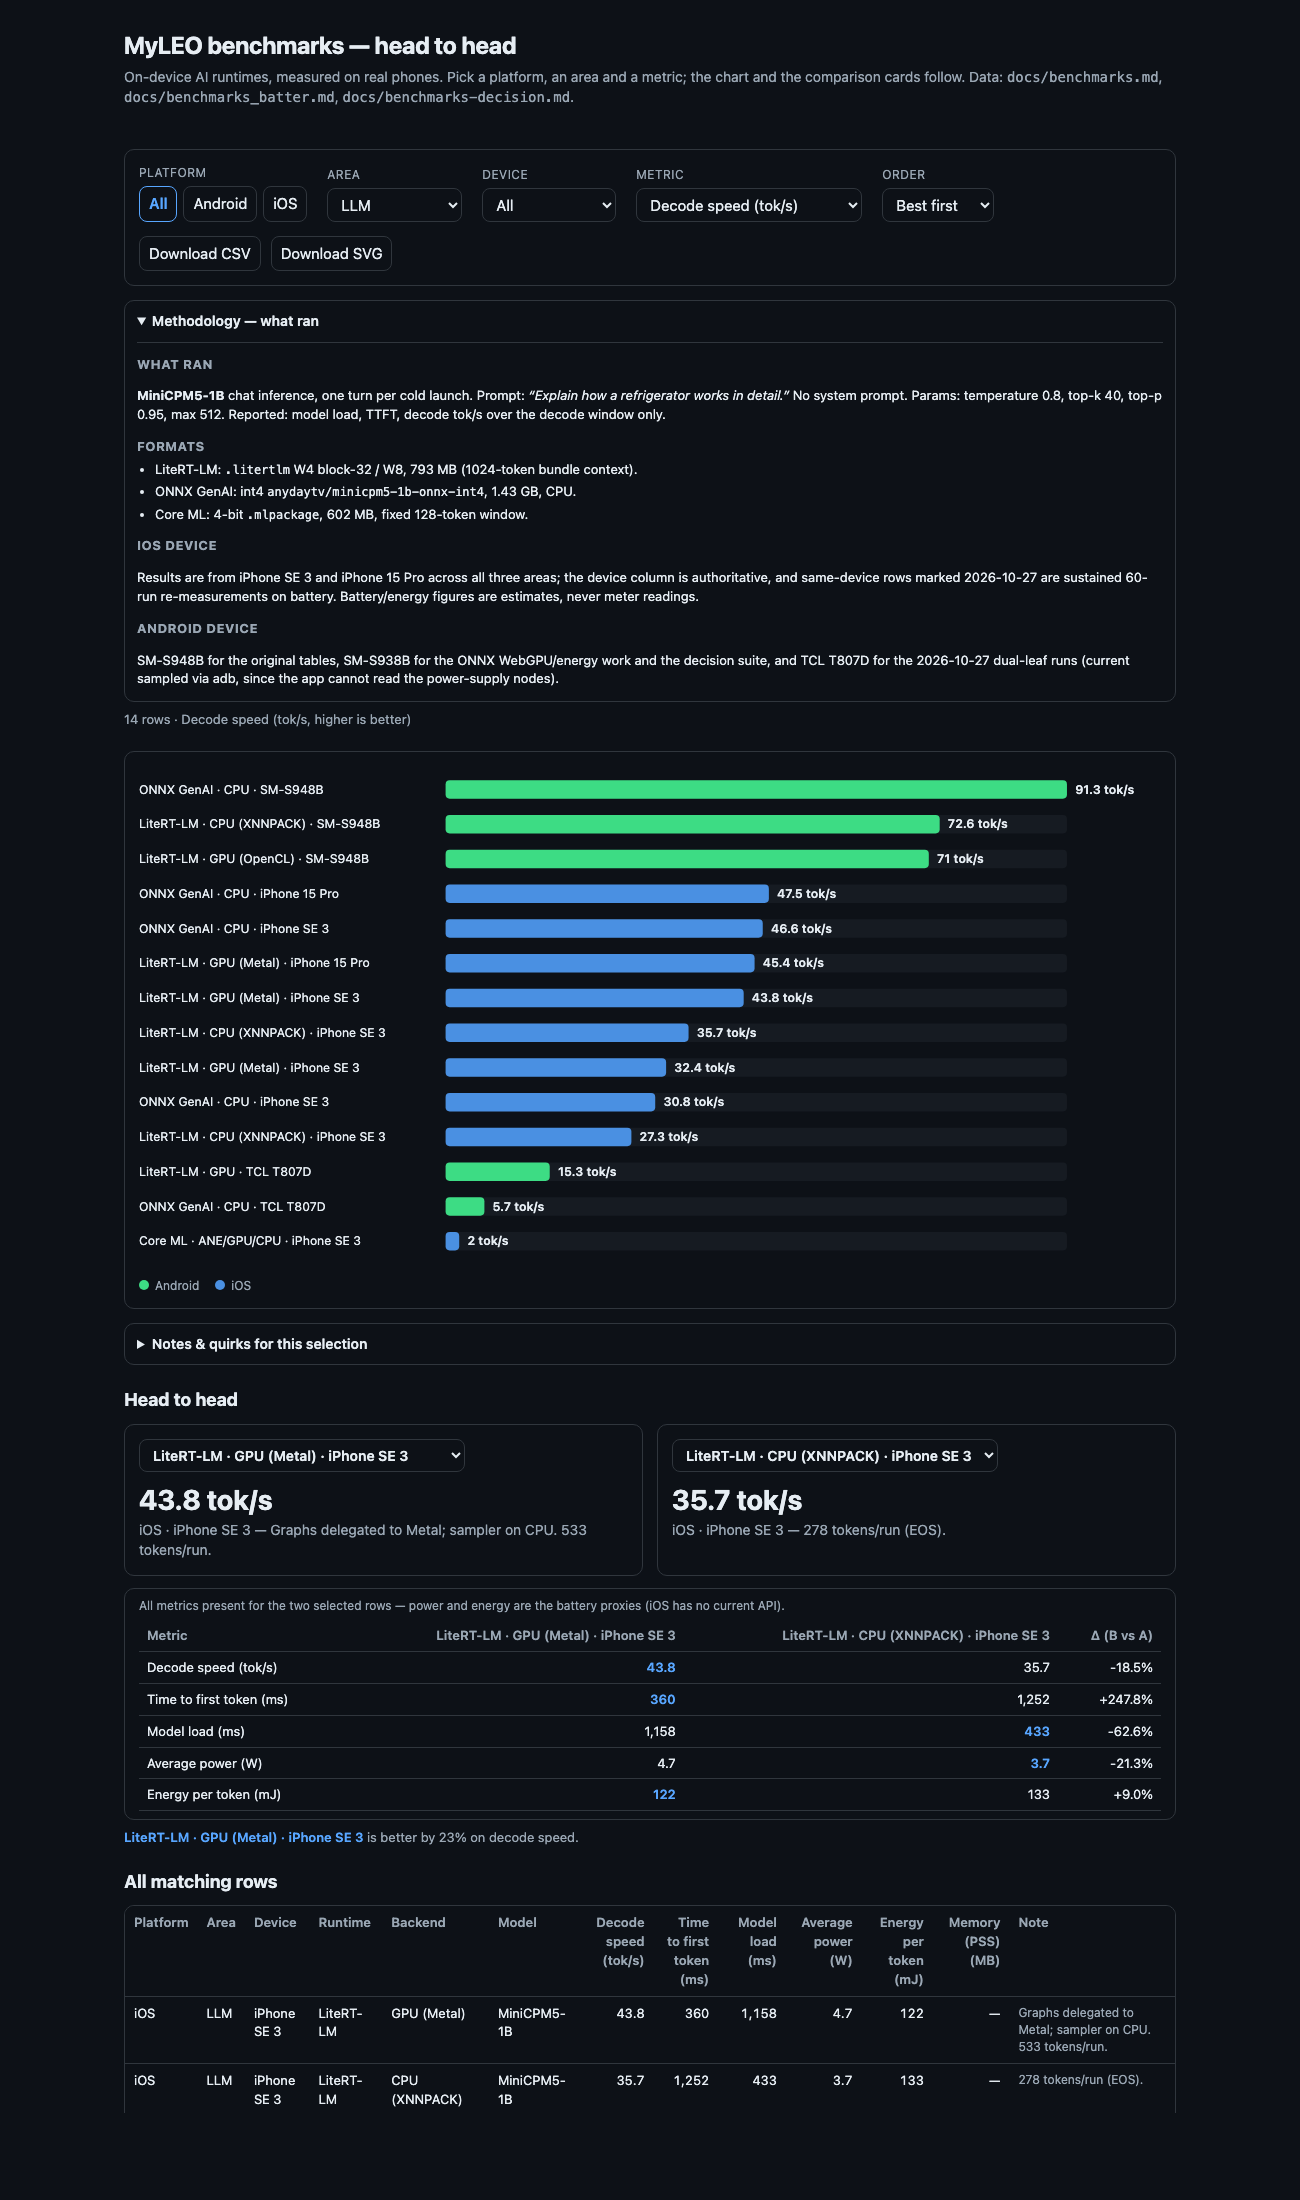
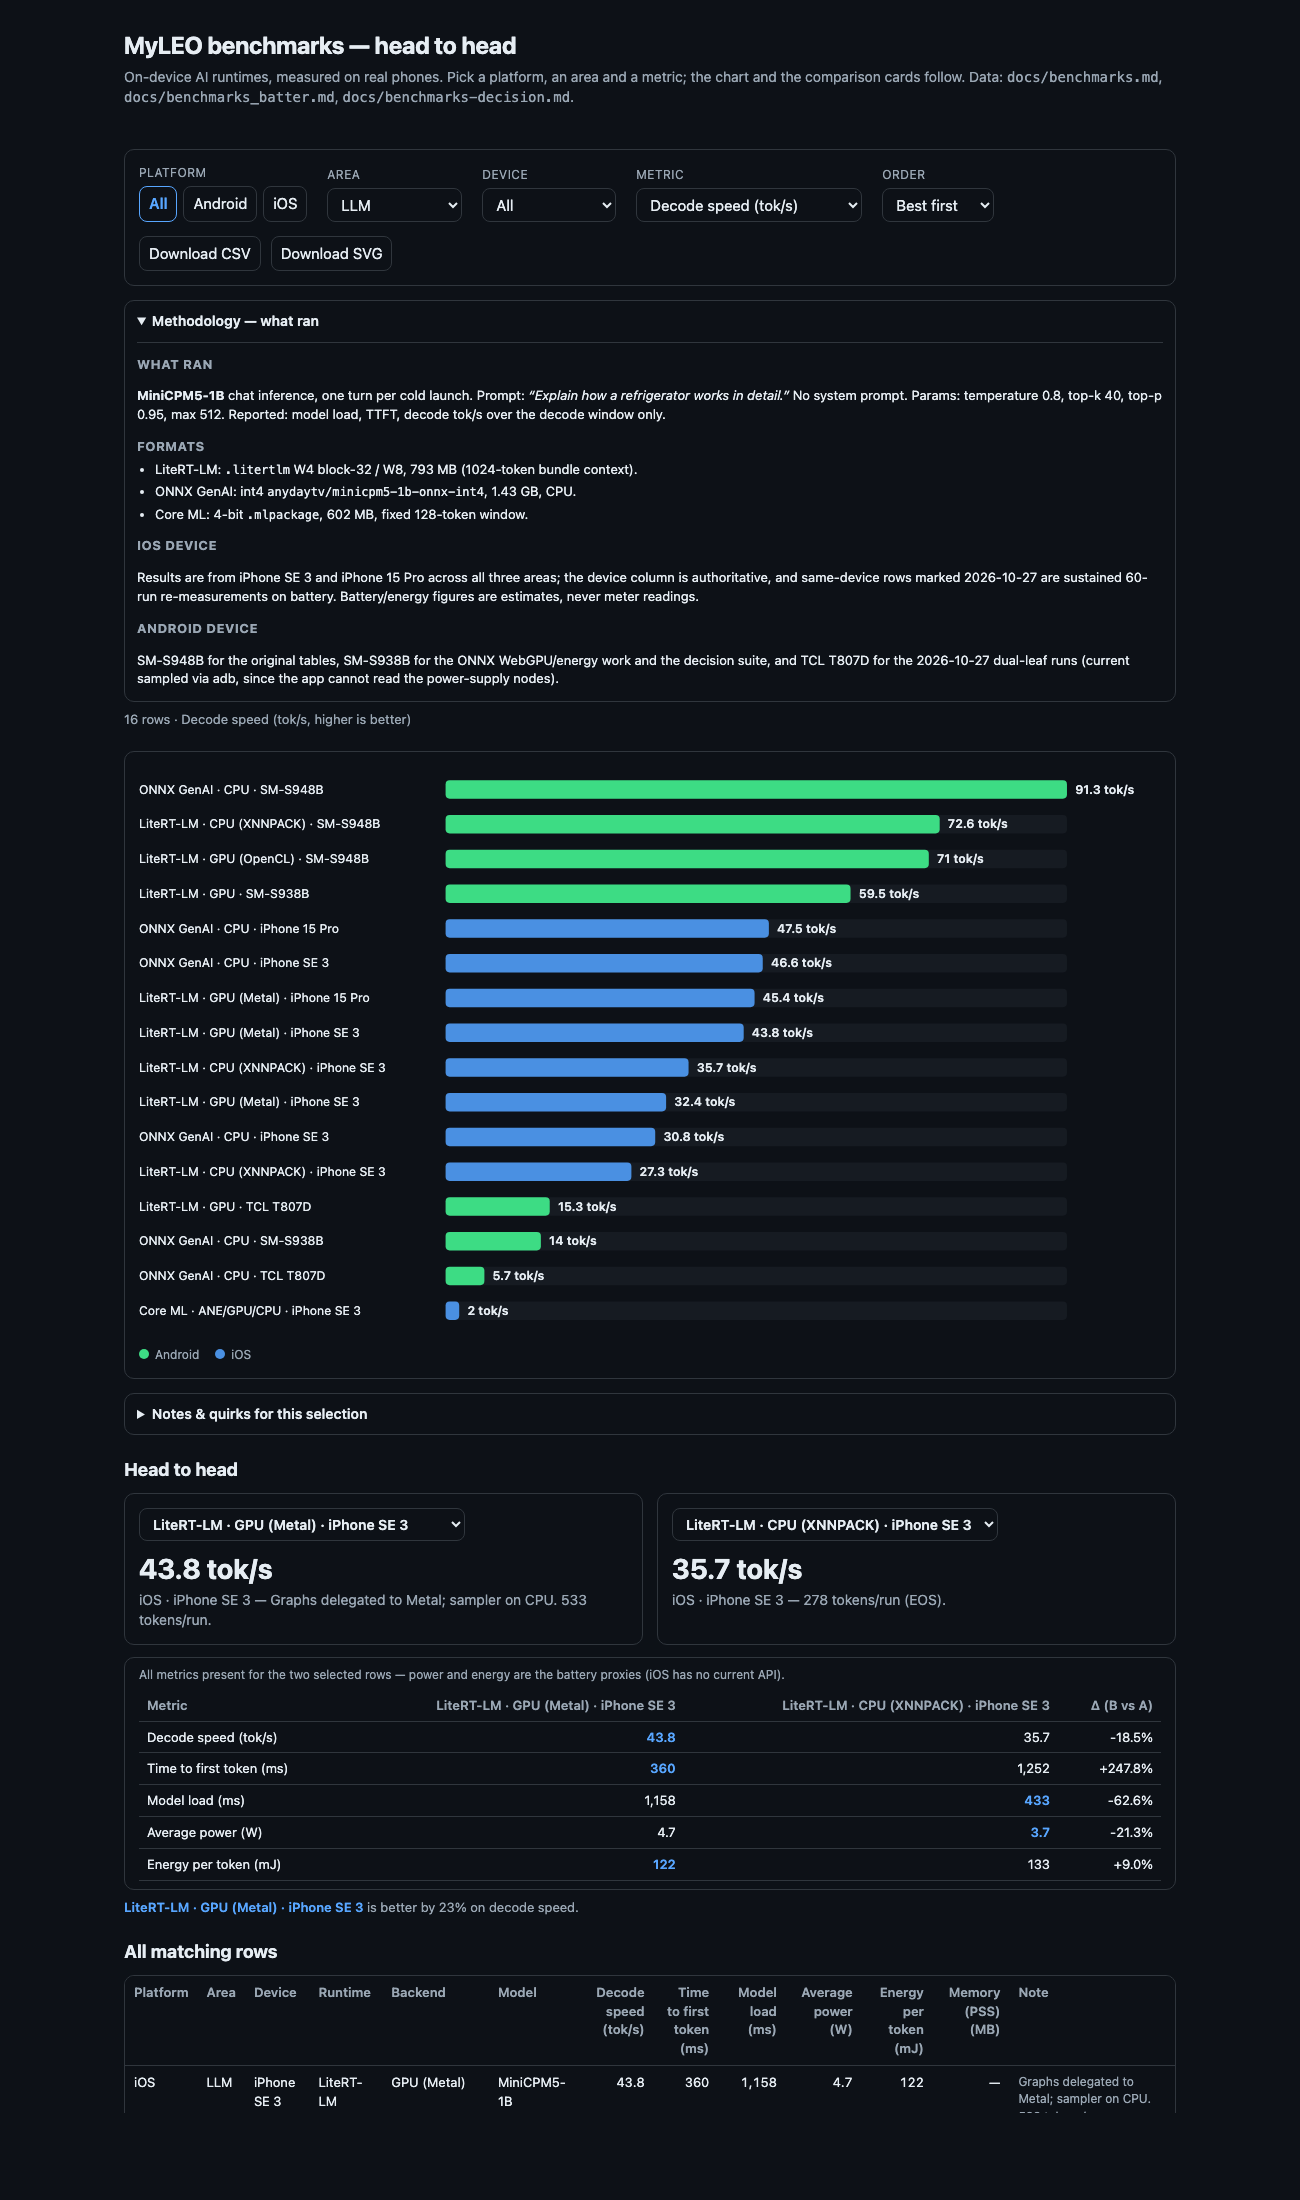
bench(android dual): Samsung S25 Ultra across all three areas
SM-S938B (Android 17, 11.4 GB) with the same instrumented harness and packages
as the TCL run. Unplugged, no power saving, thermal status 0.

Energy method: Samsung blocks /sys/class/power_supply and its `current now` is
heavily smoothed, so lanes were sized to cross at least one 0.1%-charge-counter
step (4.925 mAh = 67.7 J) and energy comes from those deltas (±34 J).

Vector (3000 chunks)
- LiteRT: 140 ms load, 58.8 ms/chunk, 3.45 W, 203 mJ/chunk (single-thread XNNPACK)
- ONNX:   660 ms load, 19.6 ms/chunk, 2.77 W, 68 mJ/chunk

Decision (Julia-1)
- LiteRT: 4.6 s load, 89.8 ms/prompt, GPU FP32, 1.96 W, 188 mJ/prompt
- ONNX:   3.3 s load, 49.0 ms/prompt, CPU, 9.43 W, 470 mJ/prompt
- GPU is slower but 2.5x cheaper per decision; ONNX pins all cores at 9.4 W

LLM
- LiteRT-LM GPU (MiniCPM5-1B): 5.7 s load, TTFT 133 ms, 59.5 tok/s, 88 mJ/token
- ONNX GenAI CPU (Phi-4 int4): 6.2 s load, TTFT 505 ms, 14.0 tok/s, 523 mJ/token
- LiteRT holds 59 tok/s across all three runs (no TCL-style throttling)

Dashboard 38 -> 44 rows, CSV + PNG regenerated, standalone snapshot rebuilt and
its CDP/no-JS checks re-run at the new counts.

diff --git a/docs/standalone-benchmarks.html b/docs/standalone-benchmarks.html
@@ -311,6 +311,30 @@
 <td class="note">Fastest decode on this phone; 361-544 tokens/run.</td>
 </tr>
 <tr>
+<td>SM-S938B</td>
+<td>LiteRT-LM</td>
+<td>GPU</td>
+<td>MiniCPM5-1B</td>
+<td class="num">5,674</td>
+<td class="num">133.0</td>
+<td class="num">59.5</td>
+<td class="num">4.2</td>
+<td class="num">88.2</td>
+<td class="note">2026-10-28 dual leaf, 3x512-token runs; cold run 60.4 tok/s then 59.5/59.2.</td>
+</tr>
+<tr>
+<td>SM-S938B</td>
+<td>ONNX GenAI</td>
+<td>CPU</td>
+<td>Phi-4-mini int4</td>
+<td class="num">6,201</td>
+<td class="num">505.0</td>
+<td class="num">14.0</td>
+<td class="num">7.1</td>
+<td class="num">523.3</td>
+<td class="note">2026-10-28 dual leaf, Phi-4 int4; 1525/1525/574 tokens because max_length = maxTokens+1024.</td>
+</tr>
+<tr>
 <td>TCL T807D</td>
 <td>LiteRT-LM</td>
 <td>GPU</td>
@@ -481,6 +505,28 @@
 </tr>
 <tr>
 <td>SM-S938B</td>
+<td>LiteRT</td>
+<td>CPU</td>
+<td>MiniLM-L6-v2</td>
+<td class="num">140</td>
+<td class="num">58.8</td>
+<td class="num">3.5</td>
+<td class="num">203.2</td>
+<td class="note">2026-10-28 dual leaf, 150x20 chunks; single-thread XNNPACK; energy from 0.1% charge-counter steps.</td>
+</tr>
+<tr>
+<td>SM-S938B</td>
+<td>ONNX</td>
+<td>CPU</td>
+<td>MiniLM-L6-v2</td>
+<td class="num">660</td>
+<td class="num">19.6</td>
+<td class="num">2.8</td>
+<td class="num">67.7</td>
+<td class="note">2026-10-28 dual leaf, 150x20 chunks; multithreaded; 3x less energy per chunk than LiteRT.</td>
+</tr>
+<tr>
+<td>SM-S938B</td>
 <td>ONNX</td>
 <td>CPU (XNNPACK)</td>
 <td>MiniLM-L6-v2</td>
@@ -593,6 +639,28 @@
 </tr>
 <tr>
 <td>SM-S938B</td>
+<td>LiteRT</td>
+<td>GPU FP32</td>
+<td>Julia-1</td>
+<td class="num">4,557</td>
+<td class="num">89.8</td>
+<td class="num">2.0</td>
+<td class="num">188.1</td>
+<td class="note">2026-10-28 dual leaf, 18-prompt suite x40; slower than ONNX but 2.5x less energy per decision.</td>
+</tr>
+<tr>
+<td>SM-S938B</td>
+<td>ONNX</td>
+<td>CPU</td>
+<td>Julia-1</td>
+<td class="num">3,304</td>
+<td class="num">49.0</td>
+<td class="num">9.4</td>
+<td class="num">470.3</td>
+<td class="note">2026-10-28 dual leaf, 18-prompt suite x200; all cores pinned at 9.4 W during bursts.</td>
+</tr>
+<tr>
+<td>SM-S938B</td>
 <td>ONNX</td>
 <td>CPU (4 threads)</td>
 <td>Julia-1</td>
@@ -628,7 +696,7 @@
   </noscript>
 
   <p class="foot" id="foot">Generated 2026-10-27 from the <code>bench-data</code> block of
-  <code>benchmarks.html</code> (38 rows). Single file, no external assets.</p>
+  <code>benchmarks.html</code> (44 rows). Single file, no external assets.</p>
 </main>
 
 <dialog id="detail" aria-labelledby="detail-title">
@@ -1117,6 +1185,86 @@
   "powerW": 4.64,
   "mjPerToken": 1082.3,
   "note": "2026-10-27 dual leaf, Phi-4 int4 (4.9 GB); runs 495-1525 tokens because max_length = maxTokens+1024."
+ },
+ {
+  "platform": "Android",
+  "area": "Vector search",
+  "device": "SM-S938B",
+  "runtime": "LiteRT",
+  "backend": "CPU",
+  "model": "MiniLM-L6-v2",
+  "loadMs": 140,
+  "msPerChunk": 58.8,
+  "powerW": 3.45,
+  "mjPerChunk": 203.2,
+  "note": "2026-10-28 dual leaf, 150x20 chunks; single-thread XNNPACK; energy from 0.1% charge-counter steps."
+ },
+ {
+  "platform": "Android",
+  "area": "Vector search",
+  "device": "SM-S938B",
+  "runtime": "ONNX",
+  "backend": "CPU",
+  "model": "MiniLM-L6-v2",
+  "loadMs": 660,
+  "msPerChunk": 19.6,
+  "powerW": 2.77,
+  "mjPerChunk": 67.7,
+  "note": "2026-10-28 dual leaf, 150x20 chunks; multithreaded; 3x less energy per chunk than LiteRT."
+ },
+ {
+  "platform": "Android",
+  "area": "Decision",
+  "device": "SM-S938B",
+  "runtime": "LiteRT",
+  "backend": "GPU FP32",
+  "model": "Julia-1",
+  "loadMs": 4557,
+  "msPerPrompt": 89.8,
+  "powerW": 1.96,
+  "mjPerPrompt": 188.1,
+  "note": "2026-10-28 dual leaf, 18-prompt suite x40; slower than ONNX but 2.5x less energy per decision."
+ },
+ {
+  "platform": "Android",
+  "area": "Decision",
+  "device": "SM-S938B",
+  "runtime": "ONNX",
+  "backend": "CPU",
+  "model": "Julia-1",
+  "loadMs": 3304,
+  "msPerPrompt": 49.0,
+  "powerW": 9.43,
+  "mjPerPrompt": 470.3,
+  "note": "2026-10-28 dual leaf, 18-prompt suite x200; all cores pinned at 9.4 W during bursts."
+ },
+ {
+  "platform": "Android",
+  "area": "LLM",
+  "device": "SM-S938B",
+  "runtime": "LiteRT-LM",
+  "backend": "GPU",
+  "model": "MiniCPM5-1B",
+  "loadMs": 5674,
+  "ttftMs": 133,
+  "tokPerSec": 59.5,
+  "powerW": 4.2,
+  "mjPerToken": 88.2,
+  "note": "2026-10-28 dual leaf, 3x512-token runs; cold run 60.4 tok/s then 59.5/59.2."
+ },
+ {
+  "platform": "Android",
+  "area": "LLM",
+  "device": "SM-S938B",
+  "runtime": "ONNX GenAI",
+  "backend": "CPU",
+  "model": "Phi-4-mini int4",
+  "loadMs": 6201,
+  "ttftMs": 505,
+  "tokPerSec": 14.0,
+  "powerW": 7.11,
+  "mjPerToken": 523.3,
+  "note": "2026-10-28 dual leaf, Phi-4 int4; 1525/1525/574 tokens because max_length = maxTokens+1024."
  }
 ]
 </script>

diff --git a/docs/benchmarks.html b/docs/benchmarks.html
@@ -647,6 +647,86 @@
     "powerW": 4.64,
     "mjPerToken": 1082.3,
     "note": "2026-10-27 dual leaf, Phi-4 int4 (4.9 GB); runs 495-1525 tokens because max_length = maxTokens+1024."
+  },
+  {
+    "platform": "Android",
+    "area": "Vector search",
+    "device": "SM-S938B",
+    "runtime": "LiteRT",
+    "backend": "CPU",
+    "model": "MiniLM-L6-v2",
+    "loadMs": 140,
+    "msPerChunk": 58.8,
+    "powerW": 3.45,
+    "mjPerChunk": 203.2,
+    "note": "2026-10-28 dual leaf, 150x20 chunks; single-thread XNNPACK; energy from 0.1% charge-counter steps."
+  },
+  {
+    "platform": "Android",
+    "area": "Vector search",
+    "device": "SM-S938B",
+    "runtime": "ONNX",
+    "backend": "CPU",
+    "model": "MiniLM-L6-v2",
+    "loadMs": 660,
+    "msPerChunk": 19.6,
+    "powerW": 2.77,
+    "mjPerChunk": 67.7,
+    "note": "2026-10-28 dual leaf, 150x20 chunks; multithreaded; 3x less energy per chunk than LiteRT."
+  },
+  {
+    "platform": "Android",
+    "area": "Decision",
+    "device": "SM-S938B",
+    "runtime": "LiteRT",
+    "backend": "GPU FP32",
+    "model": "Julia-1",
+    "loadMs": 4557,
+    "msPerPrompt": 89.8,
+    "powerW": 1.96,
+    "mjPerPrompt": 188.1,
+    "note": "2026-10-28 dual leaf, 18-prompt suite x40; slower than ONNX but 2.5x less energy per decision."
+  },
+  {
+    "platform": "Android",
+    "area": "Decision",
+    "device": "SM-S938B",
+    "runtime": "ONNX",
+    "backend": "CPU",
+    "model": "Julia-1",
+    "loadMs": 3304,
+    "msPerPrompt": 49.0,
+    "powerW": 9.43,
+    "mjPerPrompt": 470.3,
+    "note": "2026-10-28 dual leaf, 18-prompt suite x200; all cores pinned at 9.4 W during bursts."
+  },
+  {
+    "platform": "Android",
+    "area": "LLM",
+    "device": "SM-S938B",
+    "runtime": "LiteRT-LM",
+    "backend": "GPU",
+    "model": "MiniCPM5-1B",
+    "loadMs": 5674,
+    "ttftMs": 133,
+    "tokPerSec": 59.5,
+    "powerW": 4.2,
+    "mjPerToken": 88.2,
+    "note": "2026-10-28 dual leaf, 3x512-token runs; cold run 60.4 tok/s then 59.5/59.2."
+  },
+  {
+    "platform": "Android",
+    "area": "LLM",
+    "device": "SM-S938B",
+    "runtime": "ONNX GenAI",
+    "backend": "CPU",
+    "model": "Phi-4-mini int4",
+    "loadMs": 6201,
+    "ttftMs": 505,
+    "tokPerSec": 14.0,
+    "powerW": 7.11,
+    "mjPerToken": 523.3,
+    "note": "2026-10-28 dual leaf, Phi-4 int4; 1525/1525/574 tokens because max_length = maxTokens+1024."
   }
 ]
 </script>

diff --git a/docs/benchmarks.md b/docs/benchmarks.md
@@ -668,3 +668,53 @@ Reading it:
 - **The ONNX GenAI engine sets `max_length = maxTokens + 1024`**, so when EOS does not fire
   it emits ~1525 tokens — 3× the LiteRT cap. Token counts are reported per run and not
   normalised; throughput uses each run's own decode window.
+
+## Samsung Galaxy S25 Ultra — dual leaves (2026-10-28)
+
+Second Android device for the `dual` leaves, this time a flagship (`SM938B`, Snapdragon 8
+Elite) rather than the TCL. Same instrumented harness, packages and prompts.
+
+- Device: Samsung **SM-S938B** (Galaxy S25 Ultra), **Android 17**, 11.4 GB RAM, 5000 mAh.
+- Runs were unplugged; the phone was **not** in power saving and thermal status was 0.
+- The harness runs as an instrumentation process (no foreground activity). On this phone
+  that lands it in the 0–5 CPU set; starting the app's activity (0–7) did not change the
+  vector timing, so the rows below are the harness numbers, not UI-interactive ones.
+
+### Vector search (MiniLM-L6-v2, 384-d, 3000 chunks)
+
+| Runtime | Load ms | ms/chunk (median) | min–max | ≈ power | ≈ energy/chunk |
+|---|---:|---:|---|---:|---:|
+| LiteRT | **140** | **58.8** | 57.2–67.9 | 3.45 W | 203 mJ |
+| ONNX | 660 | **19.6** | 17.7–42.6 | 2.77 W | **68 mJ** |
+
+LiteRT is single-threaded here (XNNPACK delegates 272/276 nodes but keeps one thread),
+while ONNX uses its default pool — that is the 3× gap, not silicon.
+
+### Decision (Julia-1)
+
+| Runtime | Backend | Window | Requests | Load ms | ms/prompt | ≈ power | ≈ energy/prompt |
+|---|---|---|---:|---:|---:|---:|---:|
+| LiteRT | **GPU FP32** | 512 | 720 | 4557 | **89.8** | 1.96 W | **188 mJ** |
+| ONNX | CPU | 1024 | 3600 | 3304 | **49.0** | 9.43 W | 470 mJ |
+
+- GPU FP32 compiles and works, unlike on the iPhone; it is 1.8× slower per prompt than
+  ONNX CPU but uses **4.8× less power** and 2.5× less energy per decision.
+- The ONNX lane's 9.4 W is the cost of pinning all cores for 49 ms bursts.
+
+### LLM
+
+| Runtime | Model | Load ms | TTFT ms | tok/s (3 runs) | Tokens/run | ≈ power | ≈ energy/token |
+|---|---|---|---:|---|---:|---:|---:|
+| LiteRT-LM GPU | MiniCPM5-1B | **5674** | 561 / 131 / 133 | 60.4 / 59.5 / 59.2 → **59.5** | 512 | 4.20 W | **88 mJ** |
+| ONNX GenAI CPU | Phi-4-mini int4 | 6201 | 331 / 505 / 519 → **505** | 14.0 / 13.7 / 15.0 → **14.0** | 574–1525 | 7.11 W | 523 mJ |
+
+Reading it:
+
+- **The flagship is 4× faster than the TCL at both ends** (LiteRT LLM 59.5 vs 15.3 tok/s;
+  ONNX vector 19.6 vs 29.7 ms — the TCL's ONNX is actually slower per chunk than its LiteRT).
+- **LiteRT wins LLM decode 4.2× and energy 5.9× per token**, but again on different
+  checkpoints (793 MB MiniCPM5 vs 4.9 GB Phi-4 int4).
+- **ONNX is the efficient vector lane** (68 vs 203 mJ/chunk) and the fast decision lane,
+  at the cost of drawing 9.4 W during decision bursts.
+- The ONNX GenAI engine still allows up to 1536 tokens (`max_length = maxTokens + 1024`);
+  two of the three runs hit 1525 before EOS, the third stopped at 574.

diff --git a/docs/benchmarks_batter.md b/docs/benchmarks_batter.md
@@ -233,3 +233,32 @@ Reading it:
 - These are integrated current samples, not a meter: the rail voltage is read per sample,
   but charger state, screen brightness and background radios are all inside the number.
   Compare lanes on this device, not across devices with different battery packs.
+
+## Android — Samsung S25 Ultra, dual leaves (2026-10-28)
+
+Samsung blocks `/sys/class/power_supply/*` even from `adb shell`, and its
+`dumpsys battery` → `current now` value is heavily smoothed (plateaus lasting many seconds),
+so short lanes read idle. The usable signal is the **charge counter**, which on this phone
+moves in **0.1% steps (4.925 mAh ≈ 67.7 J)**. Each lane was sized to cross at least one
+step; the table uses whole-step deltas, so treat the per-op column as ±34 J.
+
+| Area | Runtime | Workload | Charge | Energy | Per operation | ≈ power |
+|---|---|---|---:|---:|---:|---:|
+| Vector | LiteRT | 3000 chunks | 44.3 mAh | 610 J | **203 mJ/chunk** | 3.45 W |
+| Vector | ONNX | 3000 chunks | 14.8 mAh | 203 J | **68 mJ/chunk** | 2.77 W |
+| Decision | LiteRT (GPU FP32) | 720 prompts | 9.9 mAh | 135 J | **188 mJ/prompt** | 1.96 W |
+| Decision | ONNX (CPU) | 3600 prompts | 123.1 mAh | 1693 J | 470 mJ/prompt | 9.43 W |
+| LLM | LiteRT-LM GPU | 1536 tokens | 9.9 mAh | 135 J | **88 mJ/token** | 4.20 W |
+| LLM | ONNX GenAI CPU | 3624 tokens | 137.9 mAh | 1896 J | 523 mJ/token | 7.11 W |
+
+Converted at the measured 3.82 V; the window includes model load.
+
+Reading it:
+
+- **ONNX is the efficient short-job runtime here**: half the power of LiteRT on vector
+  search and 3× less energy per chunk. On decisions it flips — ONNX burns 9.4 W to answer in
+  49 ms, while LiteRT's GPU path takes 90 ms at 2 W and 2.5× less energy.
+- **Flagship power is not free.** The S25's decision ONNX lane draws roughly 5× the TCL's
+  (9.4 vs 5.8 W) to go 1.4× faster, and the LLM ONNX lane draws 7.1 W.
+- The counter step is the dominant uncertainty for the two smallest lanes (LiteRT decision
+  and LLM: one step each, ±25%).

diff --git a/docs/benchmarks-decision.md b/docs/benchmarks-decision.md
@@ -359,3 +359,27 @@ Same dual leaf, same Julia-1 packages and the same 18 prompts, on a budget phone
   across types because the fixed marker-sequence forward pass dominates.
 - Answers were identical across lanes on every prompt (`billing`-style ties aside), as the
   shared tokenizer and marker encoding predict.
+
+## Android — Samsung S25 Ultra (2026-10-28)
+
+Same dual leaf and Julia-1 packages, on `SM-S938B` (Android 17, 11.4 GB), unplugged.
+Workloads were lengthened so the battery counter could resolve each lane: 40 suite
+repeats for LiteRT (720 requests) and 200 for ONNX (3600 requests).
+
+| Runtime | Backend | Window | Load ms | Avg | Min–max | ≈ energy/prompt |
+|---|---|---|---:|---:|---|---:|
+| LiteRT | **GPU FP32** | 512 | 4557 | **89.8 ms** | 71.0–158.2 | **188 mJ** |
+| ONNX | CPU | 1024 | 3304 | **49.0 ms** | 27.7–178.9 | 470 mJ |
+
+| Type | Count | LiteRT avg | ONNX avg |
+|---|---:|---:|---:|
+| choice | 320 / 1600 | 89.8 ms | 54.3 ms |
+| score | 200 / 1000 | 90.0 ms | 48.4 ms |
+| noul | 200 / 1000 | 89.7 ms | 41.0 ms |
+
+- **GPU FP32 is slower per prompt but far cheaper.** LiteRT averages 89.8 ms at 2.0 W;
+  ONNX answers in 49.0 ms but pins all cores at 9.4 W — 2.5× the energy per decision.
+- The 0.1%-step charge counter puts ±34 J on each row; the LiteRT row is one step, so its
+  per-decision figure carries roughly ±25%.
+- Per-type ordering matches every other runtime: `noul` is the cheapest ONNX call and the
+  LiteRT lane is flat because the fixed marker pass dominates.
